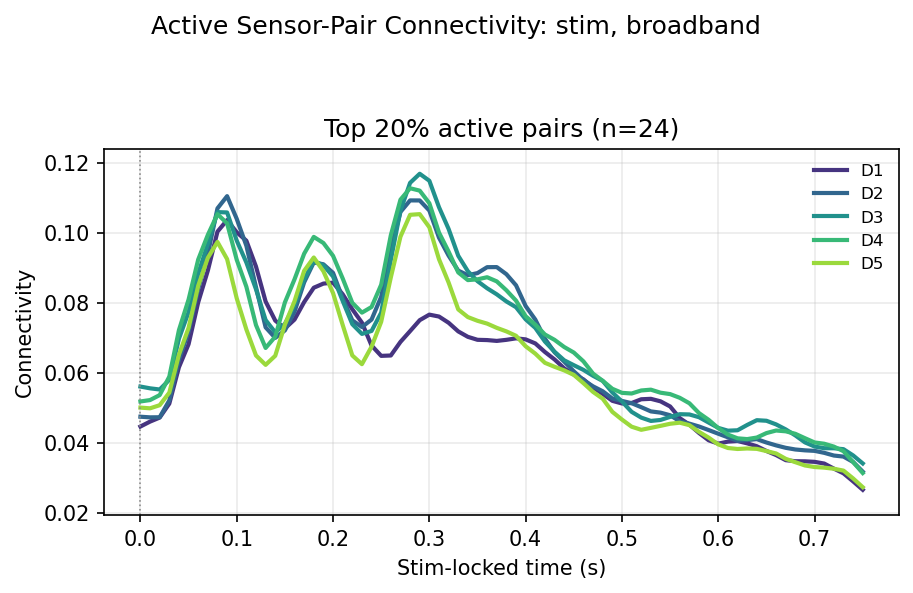
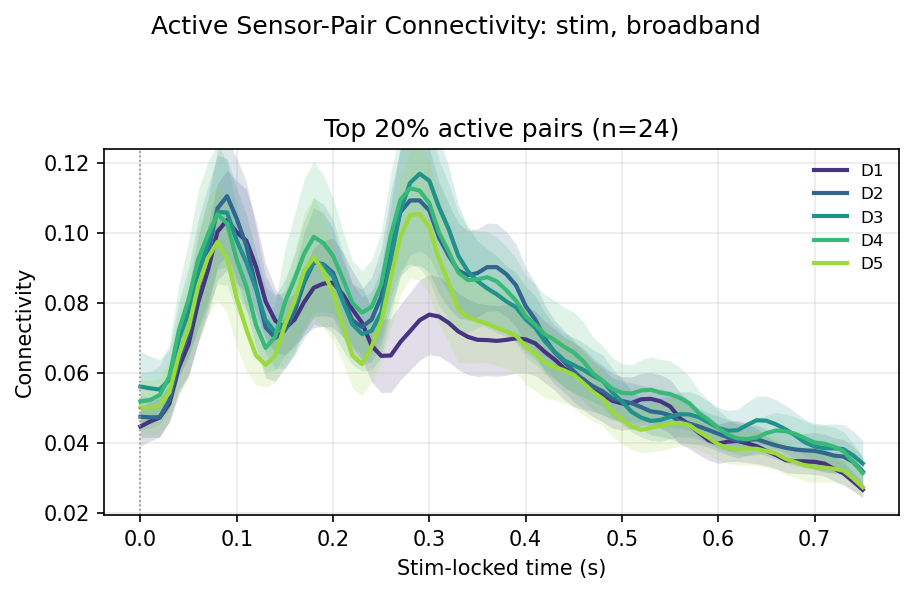
connect with error bands

Changed region(s): [[0.1533, 0.2428, 0.9507, 0.8499]]

diff --git a/code/connect_sensorwide_analysis.py b/code/connect_sensorwide_analysis.py
@@ -92,9 +92,16 @@ def process_sensorwide_session(task):
             feedback_tmin, feedback_tmax - window_sec + 1e-12, step_sec
         )
         if len(stim_starts) == 0 and len(feedback_starts) == 0:
-            return {"ok": False, "subject": subject, "day": day, "reason": "no_windows", "detail": ""}
+            return {
+                "ok": False,
+                "subject": subject,
+                "day": day,
+                "reason": "no_windows",
+                "detail": "",
+            }
 
         agg = {}
+        subject_rows = []
         for band_name, band_limits in bands.items():
             for lock_name, epochs_lock, starts in [
                 ("stim", stim_epochs, stim_starts),
@@ -134,10 +141,35 @@ def process_sensorwide_session(task):
                             agg[key] = [0.0, 0]
                         agg[key][0] += val
                         agg[key][1] += 1
+                        subject_rows.append(
+                            {
+                                "subject": subject,
+                                "day": int(day),
+                                "lock_type": lock_name,
+                                "band": band_name,
+                                "lock_time": lock_time,
+                                "ch_i": channel_subset[i],
+                                "ch_j": channel_subset[j],
+                                "conn_val": val,
+                            }
+                        )
 
-        return {"ok": True, "subject": subject, "day": day, "agg": agg, "info": info}
+        return {
+            "ok": True,
+            "subject": subject,
+            "day": day,
+            "agg": agg,
+            "subject_rows": subject_rows,
+            "info": info,
+        }
     except Exception as exc:
-        return {"ok": False, "subject": subject, "day": day, "reason": "compute_error", "detail": str(exc)}
+        return {
+            "ok": False,
+            "subject": subject,
+            "day": day,
+            "reason": "compute_error",
+            "detail": str(exc),
+        }
 
 
 def agg_to_edges_df(agg, channel_subset):
@@ -158,9 +190,20 @@ def agg_to_edges_df(agg, channel_subset):
         )
     if not agg_rows:
         return pd.DataFrame(
-            columns=["lock_type", "day", "band", "lock_time", "ch_i", "ch_j", "conn_val", "n_session_contrib"]
+            columns=[
+                "lock_type",
+                "day",
+                "band",
+                "lock_time",
+                "ch_i",
+                "ch_j",
+                "conn_val",
+                "n_session_contrib",
+            ]
         )
-    return pd.DataFrame(agg_rows).sort_values(["lock_type", "band", "day", "lock_time", "ch_i", "ch_j"])
+    return pd.DataFrame(agg_rows).sort_values(
+        ["lock_type", "band", "day", "lock_time", "ch_i", "ch_j"]
+    )
 
 
 def channel_xy(info, ch_names):
@@ -204,6 +247,7 @@ def run_sensorwide_connectivity_analysis(
     t0 = time.time()
     progress_json = output_dir / "connect_sensorwide_progress.json"
     carpet_path = output_dir / "sensorwide_carpet_timeseries.csv"
+    subject_path = output_dir / "sensorwide_carpet_subject_timeseries.csv"
     channels_path = output_dir / "sensorwide_channel_layout.csv"
     checkpoint_path = output_dir / "sensorwide_carpet_timeseries_checkpoint.csv"
 
@@ -233,12 +277,14 @@ def run_sensorwide_connectivity_analysis(
             }
         )
     print(
-        f"[connect_sensorwide] Running on {len(tasks)} sessions (n_workers={n_workers})...",
+        "[connect_sensorwide] Running on "
+        f"{len(tasks)} sessions (n_workers={n_workers})...",
         flush=True,
     )
     results = parallel_collect(process_sensorwide_session, tasks, n_workers)
 
     agg = {}
+    subject_rows = []
     info_subset = None
     used = 0
     skipped = []
@@ -254,6 +300,8 @@ def run_sensorwide_connectivity_analysis(
                 agg[key] = [0.0, 0]
             agg[key][0] += val_sum
             agg[key][1] += count
+        for row in r["subject_rows"]:
+            subject_rows.append(row)
 
     progress_json.write_text(
         json.dumps(
@@ -278,6 +326,7 @@ def run_sensorwide_connectivity_analysis(
     d_edges = agg_to_edges_df(agg, channel_subset)
     d_edges.to_csv(carpet_path, index=False)
     d_edges.to_csv(checkpoint_path, index=False)
+    pd.DataFrame(subject_rows).to_csv(subject_path, index=False)
 
     xy = channel_xy(info_subset, channel_subset)
     pd.DataFrame({"channel": channel_subset, "x": xy[:, 0], "y": xy[:, 1]}).to_csv(
@@ -288,7 +337,11 @@ def run_sensorwide_connectivity_analysis(
         f"[connect_sensorwide] Done. Used sessions: {used}, skipped: {len(skipped)}.",
         flush=True,
     )
-    return {"carpet_path": carpet_path, "channels_path": channels_path}
+    return {
+        "carpet_path": carpet_path,
+        "subject_path": subject_path,
+        "channels_path": channels_path,
+    }
 
 
 if __name__ == "__main__":

diff --git a/code/connect_sensorwide_figure.py b/code/connect_sensorwide_figure.py
@@ -275,7 +275,7 @@ def plot_active_pair_overlay(day_data, pair_idx, lock_name, band_name, figures_d
 
 
 def plot_active_pair_overlay_single_pct(
-    day_data, pair_idx, lock_name, band_name, figures_dir, pct
+    day_data, pair_idx, lock_name, band_name, figures_dir, pct, subject_df
 ):
     days = sorted(day_data.keys())
     n_pairs = len(pair_idx)
@@ -297,16 +297,82 @@ def plot_active_pair_overlay_single_pct(
     day_colors = get_day_colors(days)
     pct_label = int(round(pct * 100))
 
+    active_pair_rows = []
+    for pair_i in active_pair_idx:
+        i, j = pair_idx[pair_i]
+        active_pair_rows.append(
+            {
+                "ch_i": CHANNEL_SUBSET[i],
+                "ch_j": CHANNEL_SUBSET[j],
+            }
+        )
+    active_pair_df = pd.DataFrame(active_pair_rows)
+    d_subject = subject_df[
+        (subject_df["lock_type"] == lock_name) & (subject_df["band"] == band_name)
+    ].copy()
+    if d_subject.empty:
+        raise ValueError(
+            f"Missing subject-level connectivity rows: {lock_name}, {band_name}"
+        )
+    d_active = d_subject.merge(active_pair_df, on=["ch_i", "ch_j"], how="inner")
+    if d_active.empty:
+        raise ValueError(
+            f"No subject-level rows match top {pct_label}% active sensor-pairs"
+        )
+
+    session_rows = []
+    group_cols = ["subject", "day", "lock_time"]
+    for key, g in d_active.groupby(group_cols):
+        subject, day, lock_time = key
+        session_rows.append(
+            {
+                "subject": int(subject),
+                "day": int(day),
+                "lock_time": float(lock_time),
+                "conn_mean": float(np.mean(g["conn_val"])),
+            }
+        )
+    session_df = pd.DataFrame(session_rows)
+    stat_rows = []
+    for key, g in session_df.groupby(["day", "lock_time"]):
+        day, lock_time = key
+        vals = np.asarray(g["conn_mean"], dtype=float)
+        sem = np.nan
+        if len(vals) > 1:
+            sem = float(np.std(vals, ddof=1) / np.sqrt(len(vals)))
+        stat_rows.append(
+            {
+                "day": int(day),
+                "lock_time": float(lock_time),
+                "mean": float(np.mean(vals)),
+                "sem": sem,
+                "n": int(len(vals)),
+            }
+        )
+    stat_df = pd.DataFrame(stat_rows)
+
     fig, ax = plt.subplots(figsize=(6.2, 4.0))
     for day in days:
-        times, d = carpets[day]
-        active_mean = np.nanmean(d[active_pair_idx, :], axis=0)
+        d_day = stat_df[stat_df["day"] == day].sort_values("lock_time")
+        if d_day.empty:
+            raise ValueError(f"Missing top {pct_label}% overlay stats for day {day}")
+        times = np.asarray(d_day["lock_time"], dtype=float)
+        active_mean = np.asarray(d_day["mean"], dtype=float)
+        active_sem = np.asarray(d_day["sem"], dtype=float)
         ax.plot(
             times,
             active_mean,
             color=day_colors[day],
             linewidth=2.0,
             label=f"D{day}",
+        )
+        ax.fill_between(
+            times,
+            active_mean - active_sem,
+            active_mean + active_sem,
+            color=day_colors[day],
+            alpha=0.16,
+            linewidth=0,
         )
     ax.axvline(0.0, color="0.55", linestyle=":", linewidth=0.8)
     ax.set_xlabel(f"{lock_name.capitalize()}-locked time (s)")
@@ -337,15 +403,24 @@ def save_fig_sensorwide_connectivity(
     figures_dir = Path(figures_dir)
     figures_dir.mkdir(parents=True, exist_ok=True)
     carpet_path = output_dir / "sensorwide_carpet_timeseries.csv"
+    subject_path = output_dir / "sensorwide_carpet_subject_timeseries.csv"
     channels_path = output_dir / "sensorwide_channel_layout.csv"
     if not carpet_path.exists() or not channels_path.exists():
         raise FileNotFoundError(
             f"Missing sensorwide output tables in {output_dir}. "
             "Run connect_sensorwide_analysis.py first."
         )
+    if not subject_path.exists():
+        raise FileNotFoundError(
+            f"Missing subject-level sensorwide output: {subject_path}. "
+            "Run connect_sensorwide_analysis.py first."
+        )
     d_carpet = pd.read_csv(carpet_path)
     if d_carpet.empty:
         raise ValueError(f"Empty sensorwide carpet output table: {carpet_path}")
+    d_subject = pd.read_csv(subject_path)
+    if d_subject.empty:
+        raise ValueError(f"Empty subject-level sensorwide output: {subject_path}")
 
     d_channels = pd.read_csv(channels_path)
     ch_pos_map = {}
@@ -420,6 +495,7 @@ def save_fig_sensorwide_connectivity(
                     band_name,
                     figures_dir,
                     0.20,
+                    d_subject,
                 )
                 figure_paths.append(fig_path)
     return {"figure_paths": figure_paths}
